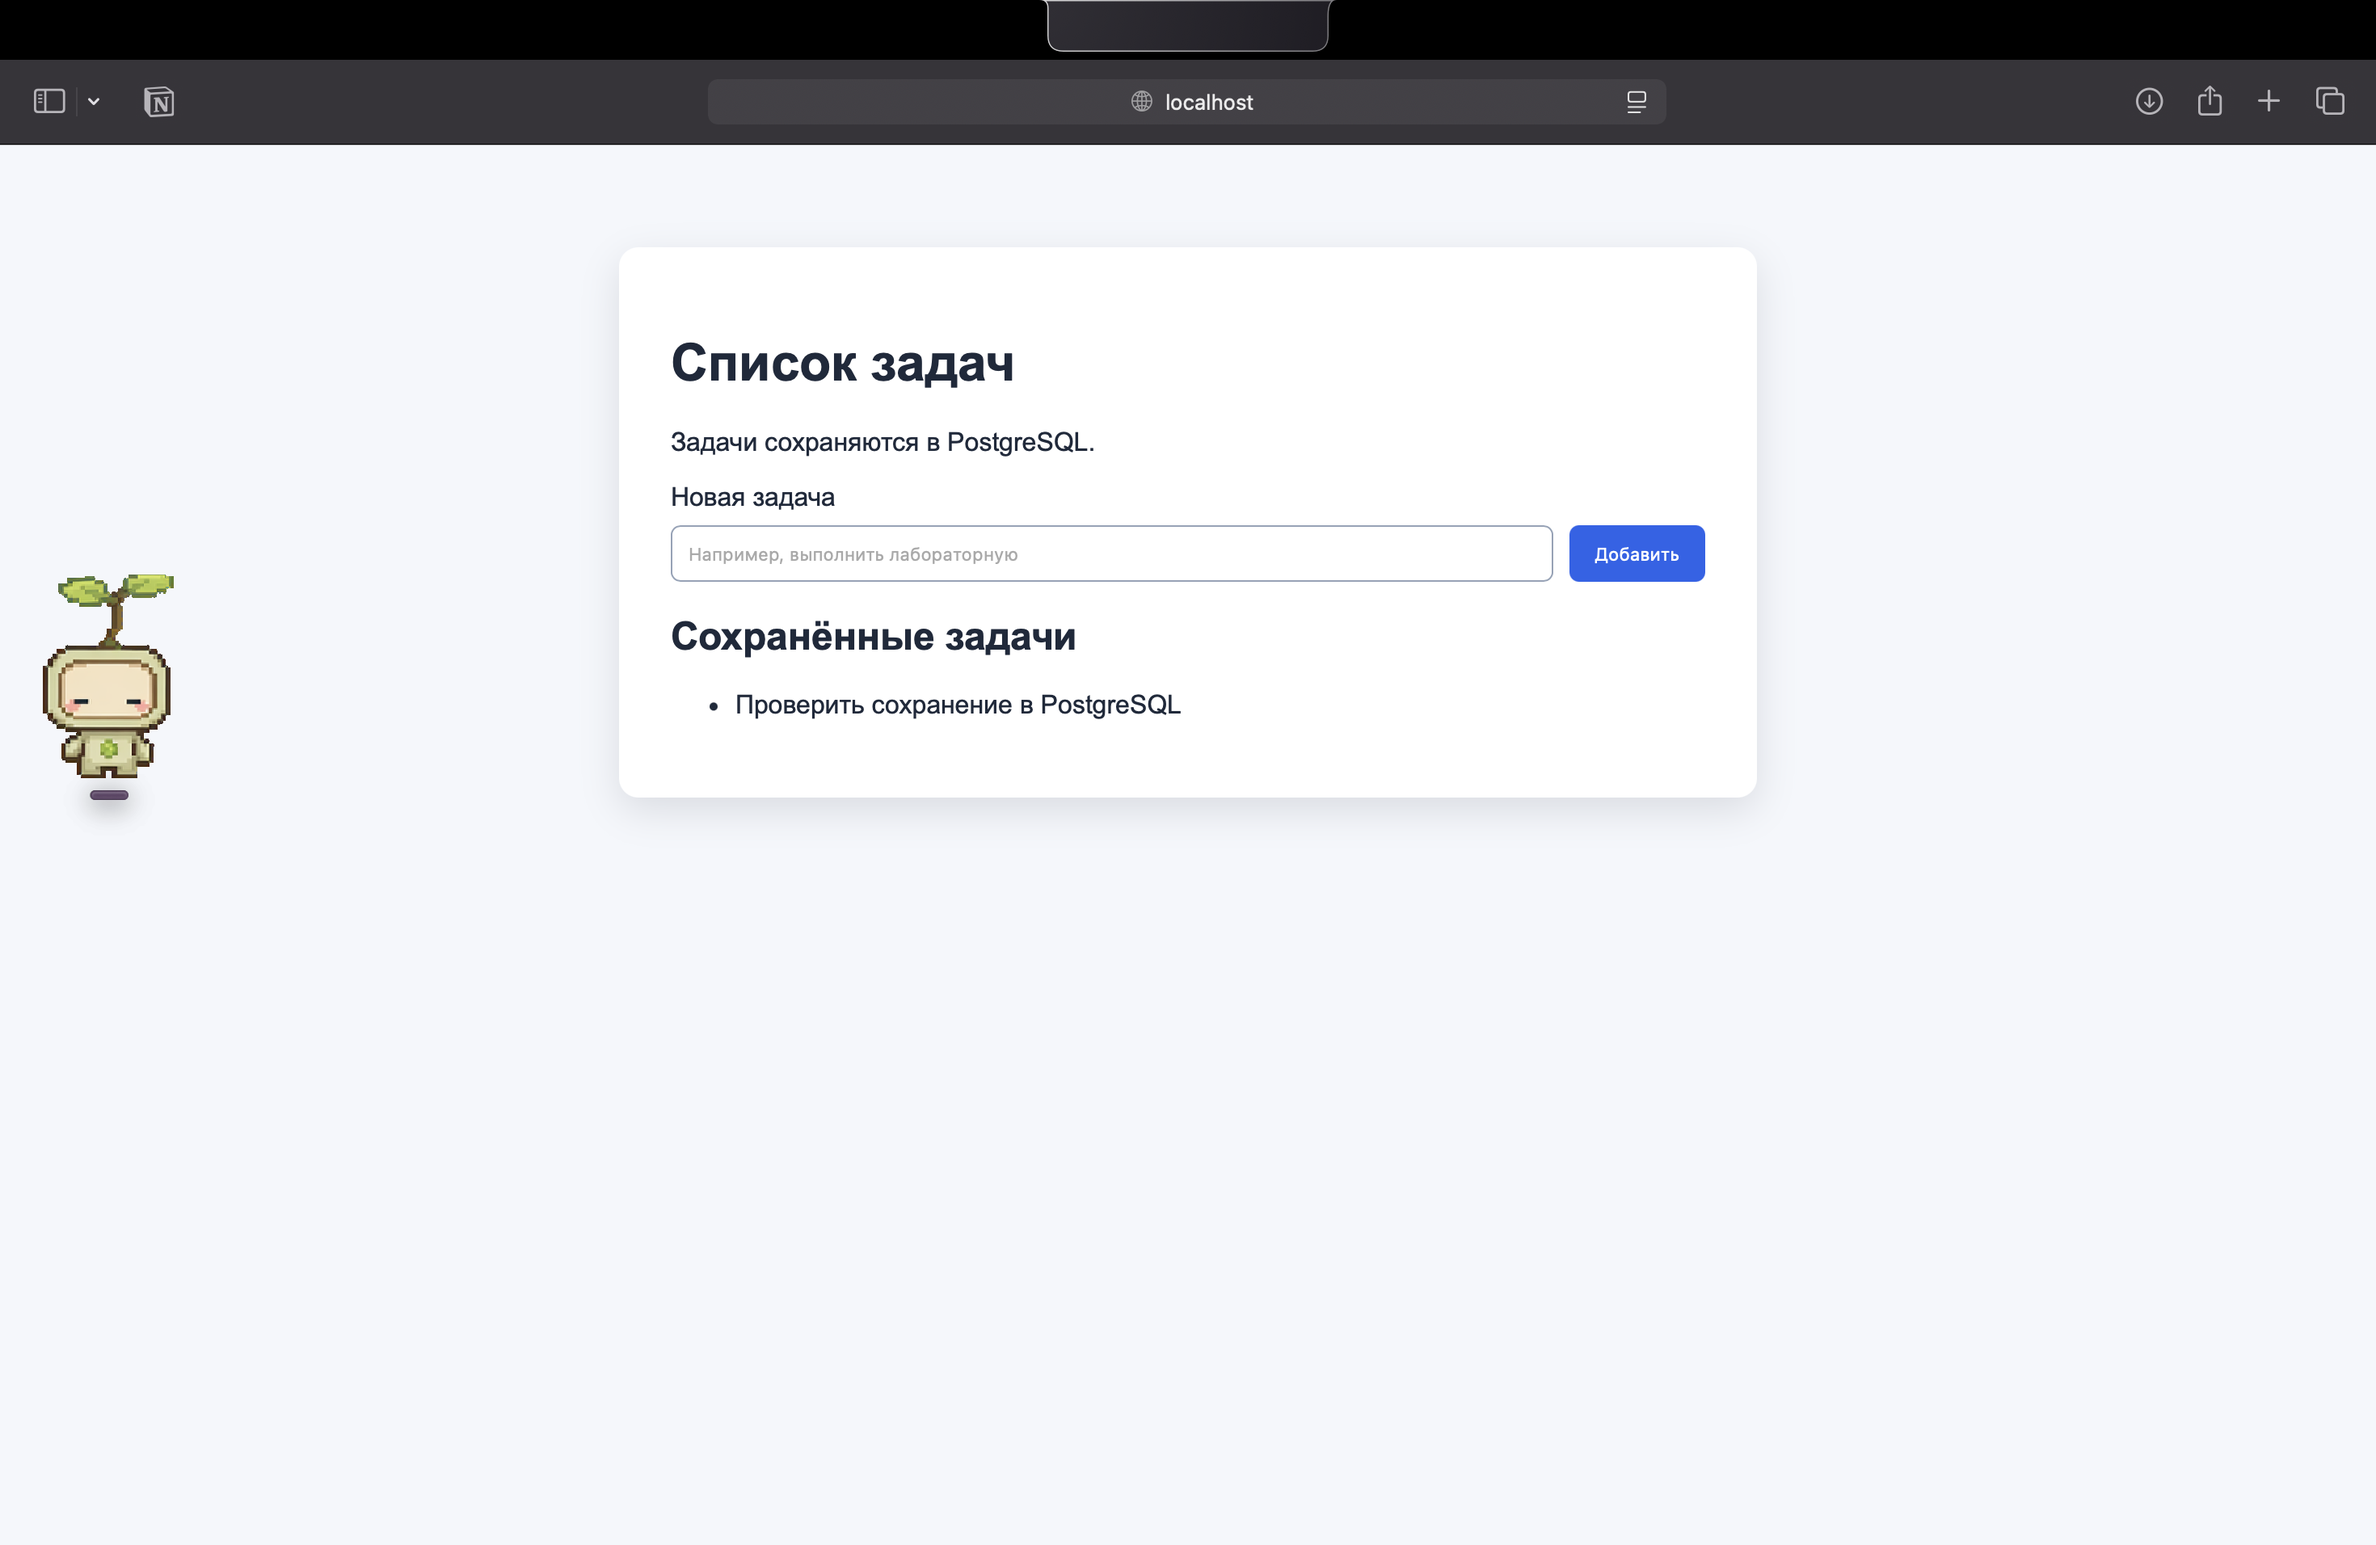
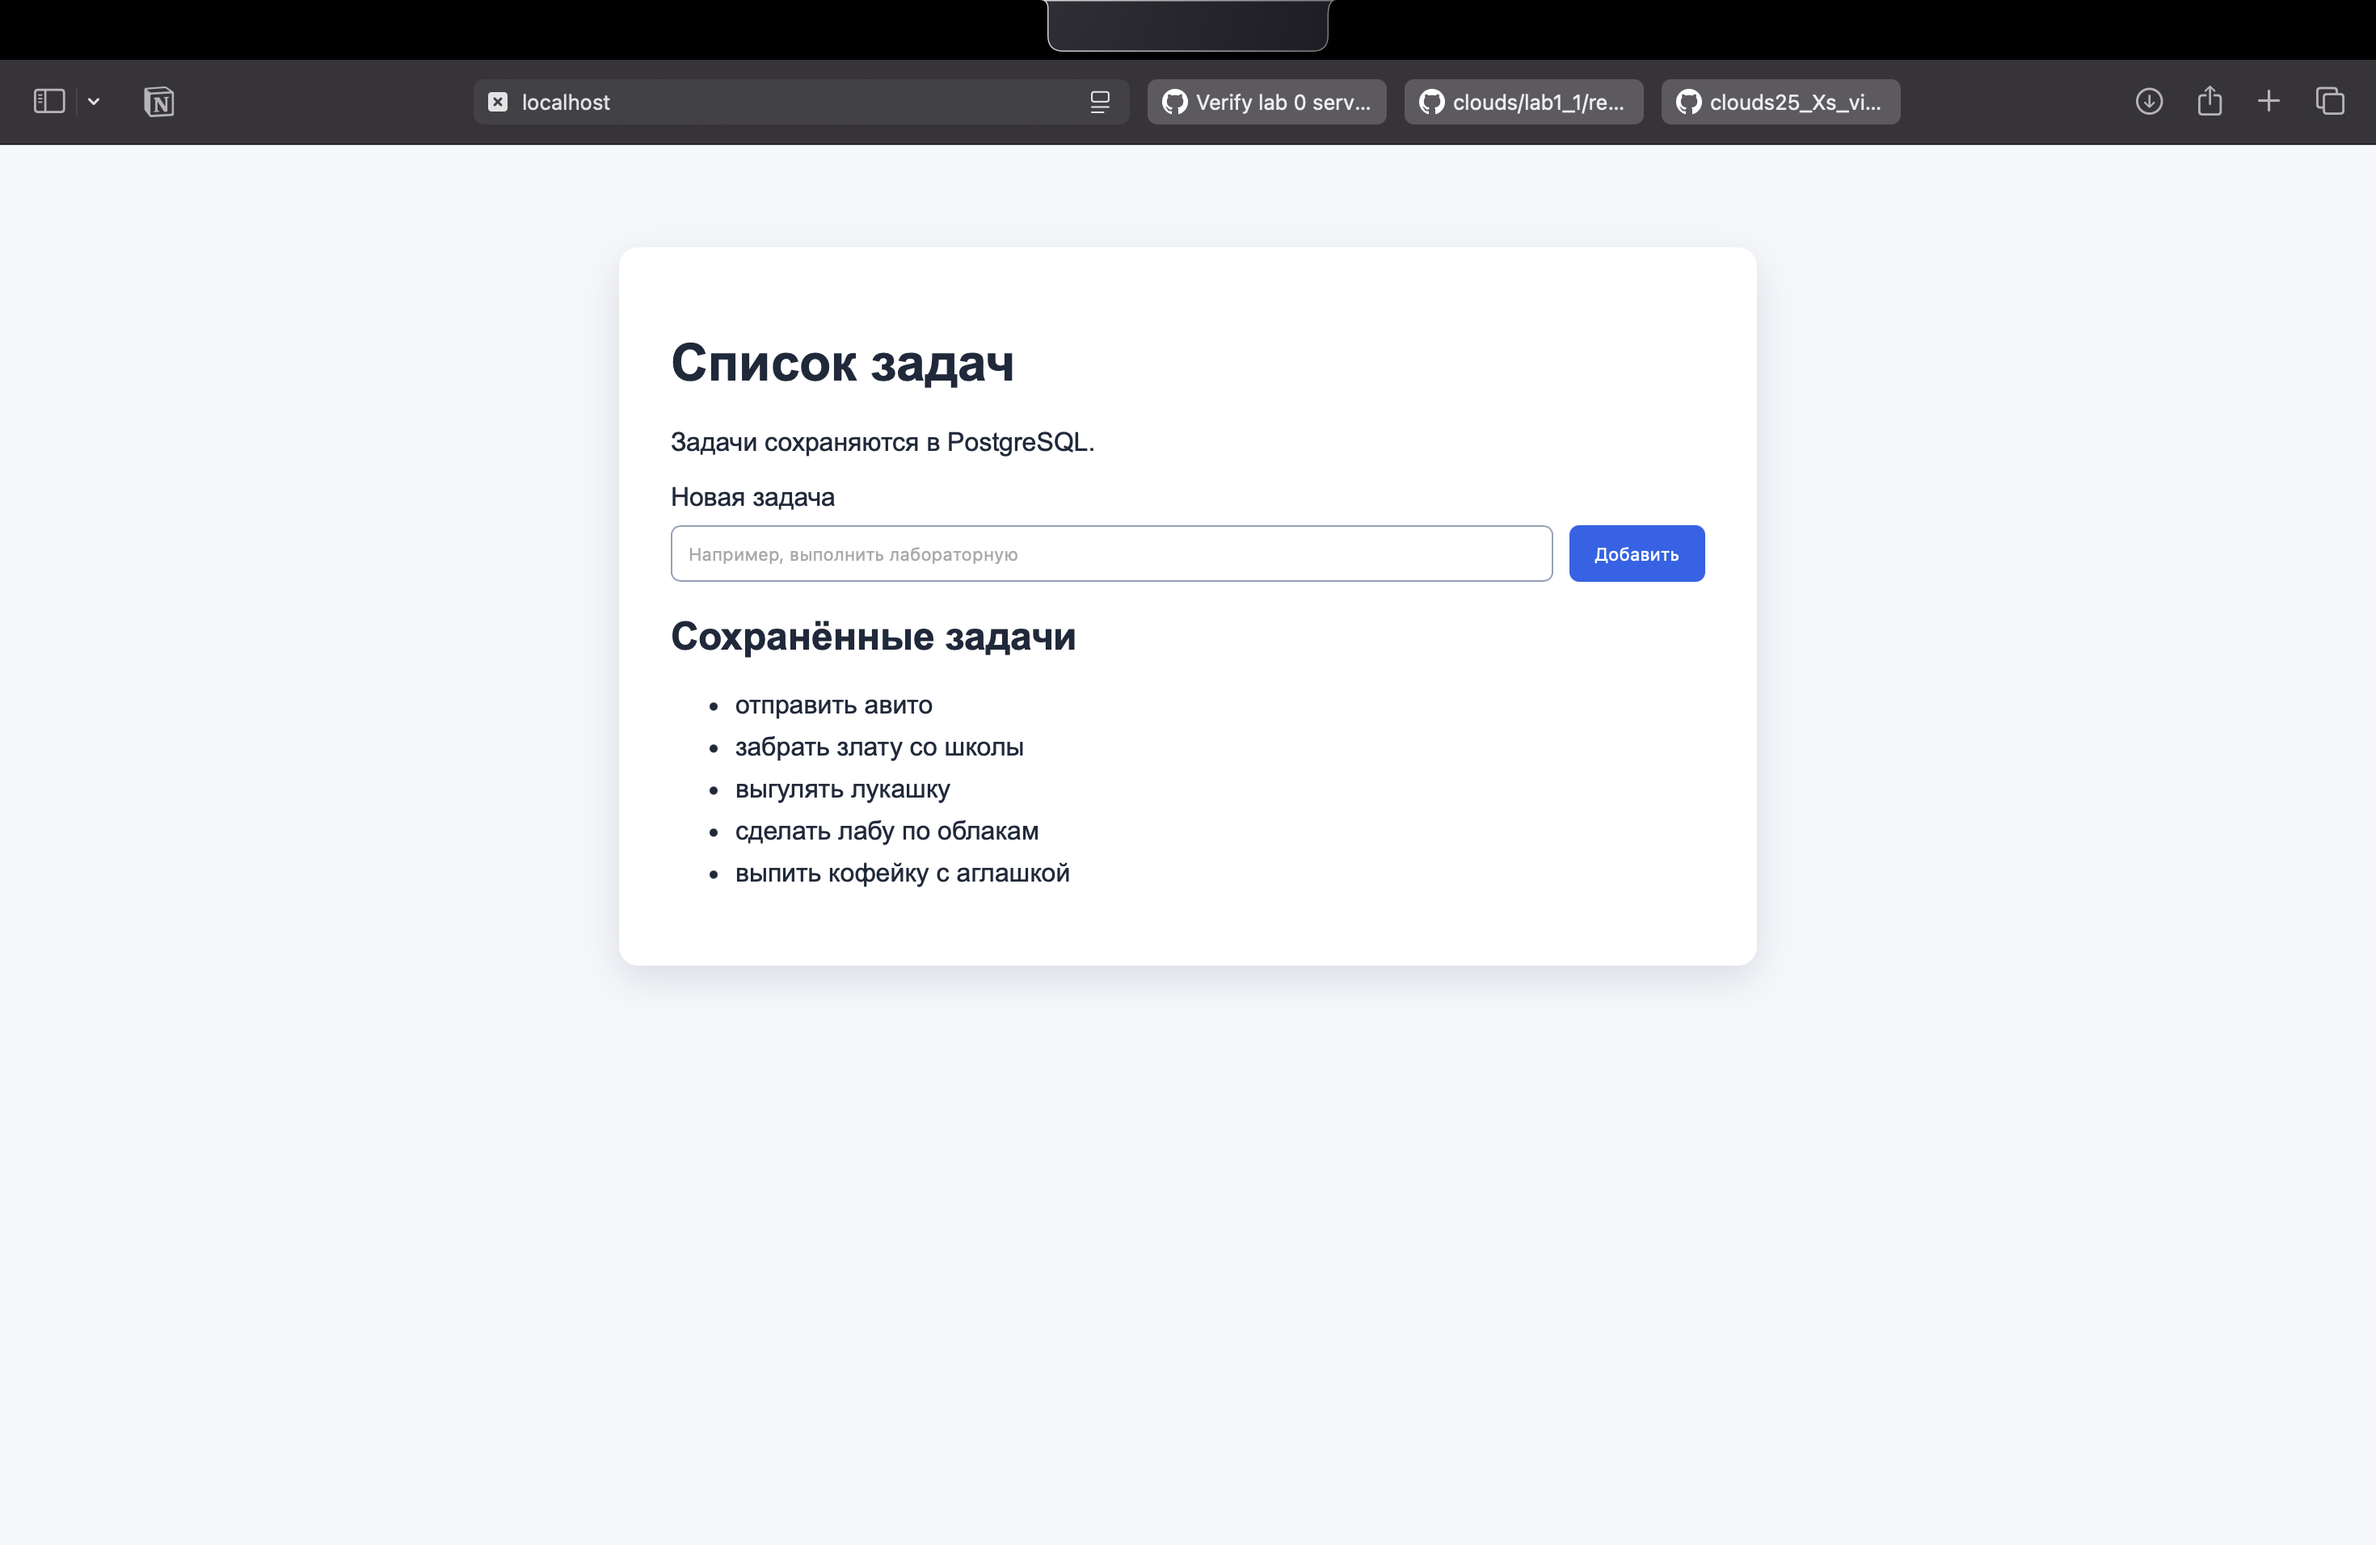
Update lab 0 report and screenshot

diff --git a/lab-0/report.md b/lab-0/report.md
@@ -1,35 +1,48 @@
-# Отчёт по лабораторной работе 0
+# Лабораторная работа 0
 
-## Репозиторий
+Репозиторий со всей работой: <https://github.com/Sofa-maruysh/cloud-labs>. Сама лаба лежит в папке `lab-0`.
 
-Код лабораторной работы находится в публичном репозитории: <https://github.com/Sofa-maruysh/cloud-labs>.
+## Шаг 1. Что вообще нужно было сделать
 
-## Цель работы
+Нужно было сделать маленький сервис, который потом пригодится в следующих лабах. Но не просто страничку, а штуку из трёх частей: фронт, бэк и нормальная база данных. SQLite тут не подходит, потому что база должна жить отдельно и к ней нужно обращаться по сети.
 
-Собрать небольшой веб-сервис, в котором фронтенд передаёт данные бэкенду, а бэкенд сохраняет и читает их из отдельной базы данных PostgreSQL.
+Я решила сделать список задач. Это самый понятный вариант: добавила задачу, обновила страницу, задача осталась — значит, она действительно дошла до базы, а не просто красиво появилась на экране.
 
-## Что я сделала
+## Шаг 2. Из чего состоит моя штука
 
-Я сделала сервис «Список задач». На странице есть поле ввода и кнопка «Добавить». После отправки формы Flask получает текст задачи и записывает его в PostgreSQL. Затем Flask читает все сохранённые задачи и показывает их на странице.
+1. Фронтенд — страница со строкой ввода, кнопкой «Добавить» и списком задач.
+2. Бэкенд — Flask. Он получает текст задачи, кладёт его в базу и потом достаёт все задачи обратно.
+3. База — PostgreSQL. Она запускается отдельным контейнером Docker, а не лежит файликом где-то внутри программы.
 
-База данных не встроена в приложение: PostgreSQL запускается отдельным сервисом `db`. Это важно, потому что в следующих лабораторных базу можно будет контейнеризовать и настраивать отдельно от приложения.
+Если совсем по-простому: браузер пишет Flask, Flask пишет PostgreSQL, потом PostgreSQL отдаёт задачи Flask, а Flask показывает их на странице.
 
-## Как запустила
+## Шаг 3. Docker и запуск
 
-1. Установила Docker Desktop.
-2. Открыла терминал в папке `lab-0`.
-3. Выполнила команду `docker compose up --build`.
-4. Открыла адрес <http://localhost:5050>.
-5. Добавила задачу через форму и обновила страницу. Задача осталась в списке, значит она сохранилась в PostgreSQL.
+Для запуска поставила Docker Desktop. Он нужен, чтобы поднять отдельно приложение и отдельно PostgreSQL, а не пытаться руками ставить и настраивать базу.
 
-Подробная инструкция запуска находится в [README.md](README.md).
+Дальше в папке `lab-0` выполнила:
 
-## Скриншоты
+```bash
+docker compose up --build
+```
 
-После запуска сюда будет добавлен скрин работающего приложения:
+Команда собирает приложение и запускает два контейнера:
+
+- `app` — Flask-приложение;
+- `db` — PostgreSQL.
+
+Сначала хотела открыть всё на порту `5000`, но оказалось, что он уже занят. Поменяла внешний порт на `5050`, и в браузере открыла <http://localhost:5050>.
+
+Полная инструкция на случай, если я потом забуду команды, лежит в [README.md](README.md).
+
+## Шаг 4. Проверка, что это не обманка
+
+Добавила в список несколько обычных задач: отправить авито, забрать Злату со школы, выгулять Лукашку, сделать лабу по облакам и выпить кофейку с Аглашкой.
+
+Потом обновила страницу. Список остался. Значит, задачи сохраняются в PostgreSQL, а не исчезают после перезагрузки, как было бы, если бы я хранила их просто внутри страницы.
 
 ![Работающее приложение](screenshots/running-app.png)
 
-## Результат
+## Что в итоге
 
-У меня получился небольшой сервис с фронтендом, бэкендом и отдельной PostgreSQL. Главный момент этой лабораторной — после обновления страницы добавленная задача не исчезает, потому что она хранится в базе данных, а не просто в памяти программы.
+У меня есть маленький сервис, который реально запускается локально. В нём есть фронт, бэк и отдельная база. Честно говоря, больше всего пришлось повозиться не со списком задач, а с Docker и свободным портом, но в итоге всё поднялось и работает.
